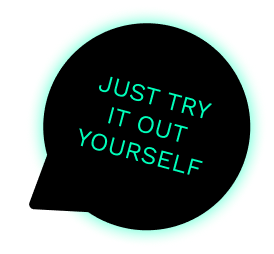
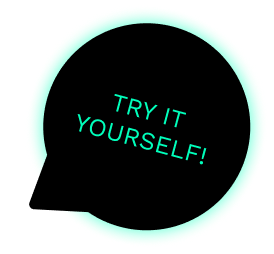
Update badges and interactions

Changed region(s): [[0.2628, 0.3031, 0.7883, 0.689]]

diff --git a/index.html b/index.html
@@ -7,7 +7,7 @@
     <link rel="preconnect" href="https://fonts.googleapis.com" />
     <link rel="preconnect" href="https://fonts.gstatic.com" crossorigin />
     <link href="https://fonts.googleapis.com/css2?family=Work+Sans:wght@300;400;500;600;700&display=swap" rel="stylesheet" />
-    <link rel="stylesheet" href="styles.css?v=20260706-08" />
+    <link rel="stylesheet" href="styles.css?v=20260707-05" />
   </head>
   <body>
     <main class="stage" aria-live="polite">
@@ -30,7 +30,7 @@
             <div class="phone-speaker" aria-hidden="true"></div>
             <div class="screen" id="screen"></div>
           </div>
-          <img class="prototype-badge" id="prototypeBadge" src="Assets/try_badge.png?v=20260703-20" alt="" aria-hidden="true" />
+          <img class="prototype-badge" id="prototypeBadge" src="Assets/try_badge.png?v=20260707-04" alt="" aria-hidden="true" />
         </article>
 
         <button class="nav-button nav-button--next" id="nextButton" type="button" aria-label="Nächster Prototyp">
@@ -75,6 +75,6 @@
       </section>
     </div>
 
-    <script src="script.js?v=20260706-08"></script>
+    <script src="script.js?v=20260707-05"></script>
   </body>
 </html>

diff --git a/script.js b/script.js
@@ -102,8 +102,8 @@ const modalBackdrop = document.querySelector("#modalBackdrop");
 const modalClose = document.querySelector("#modalClose");
 
 const badgeAssets = {
-  try: "Assets/try_badge.png?v=20260703-20",
-  video: "Assets/video_badge.png?v=20260703-20",
+  try: "Assets/try_badge.png?v=20260707-04",
+  video: "Assets/video_badge.png?v=20260707-04",
 };
 
 const totalProjectSlots = 12;